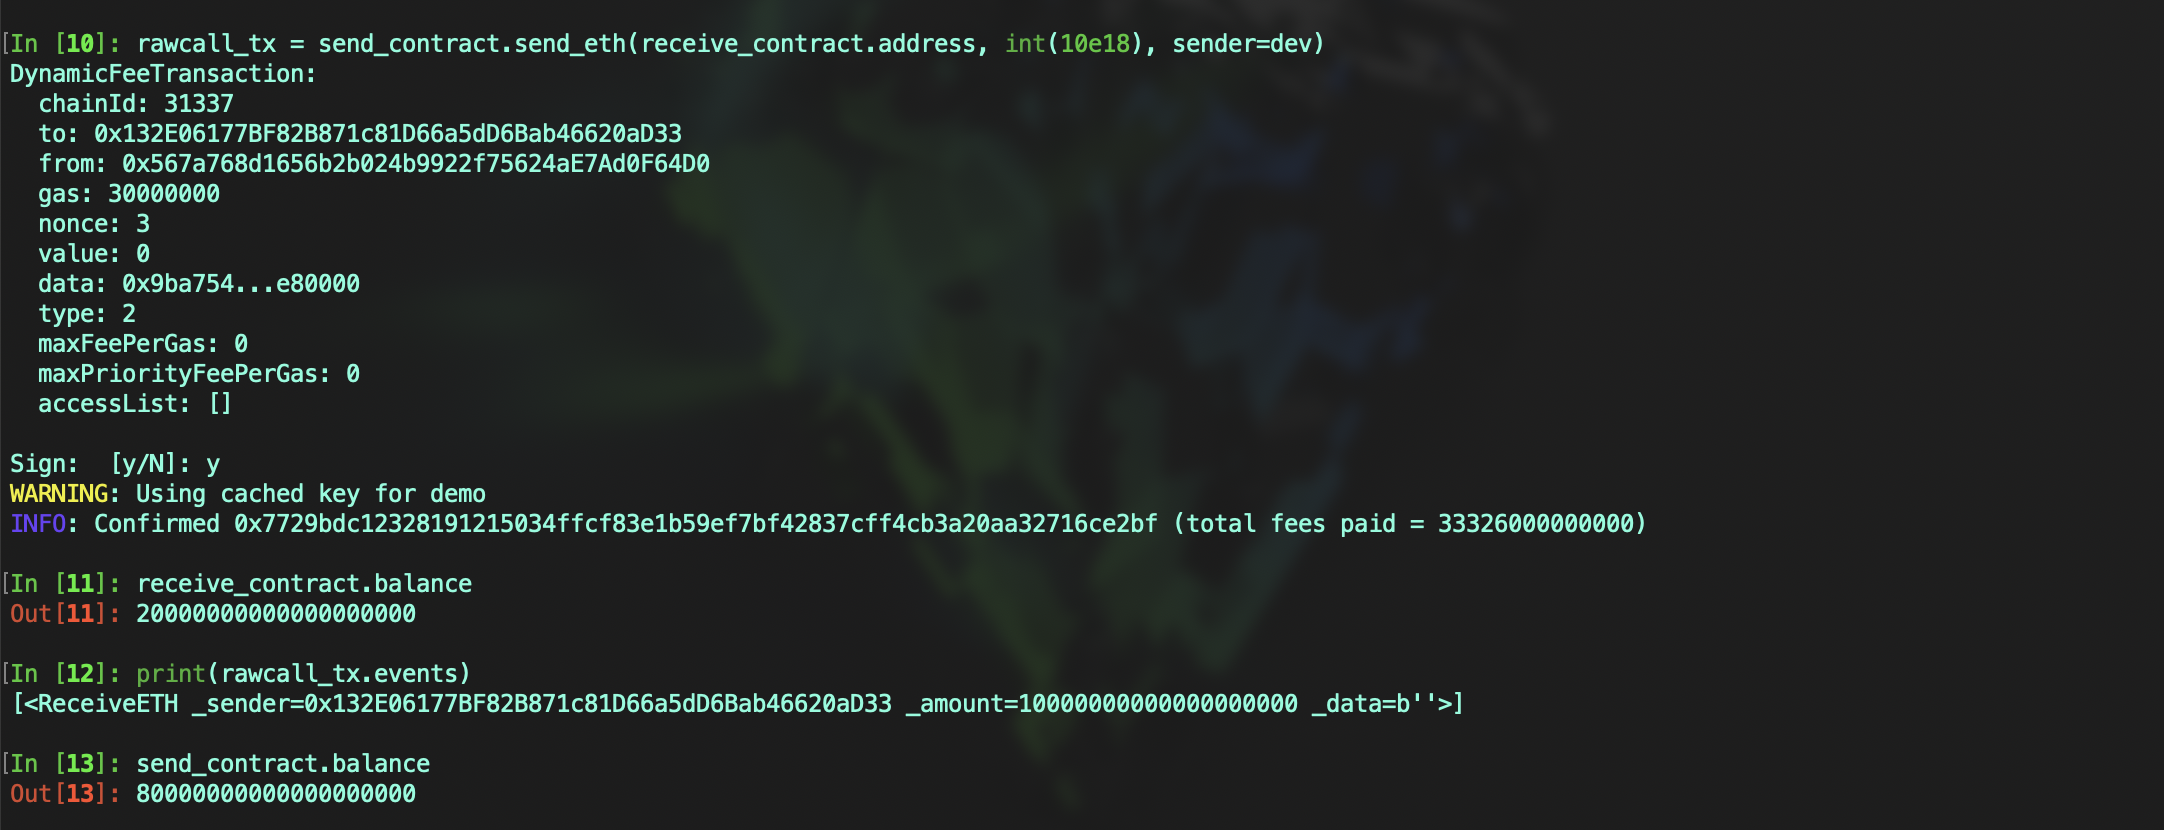
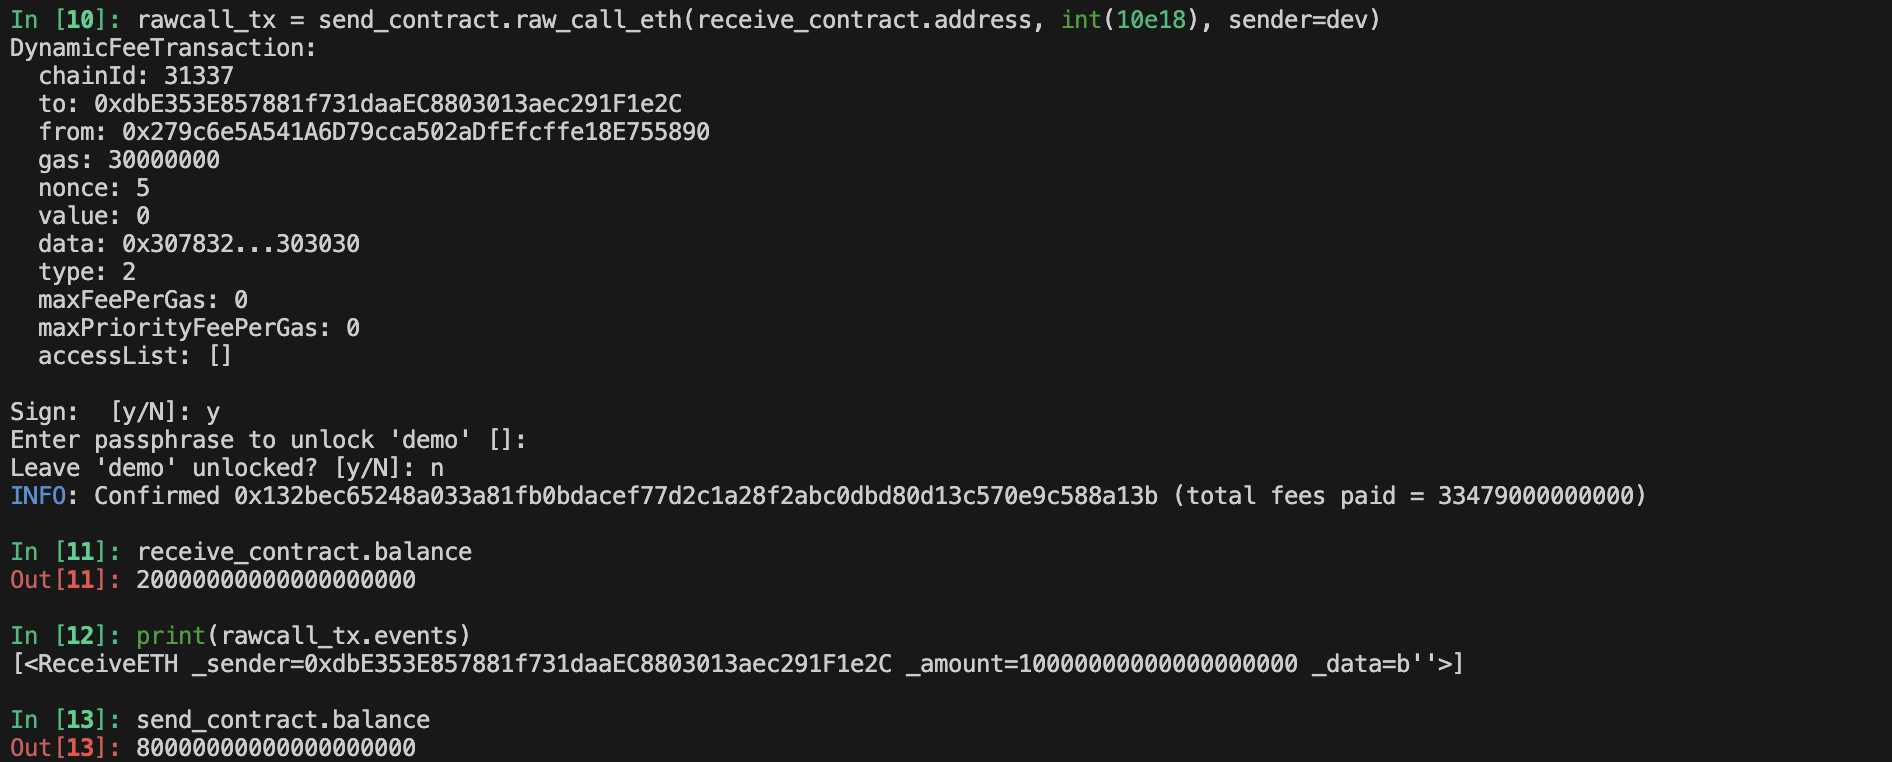
Lesson15-19 revised pictures and texts

diff --git a/Draft/16-发送ETH/README.md b/Draft/16-发送ETH/README.md
@@ -1,9 +1,10 @@
-# Vyper 入门: 16. 发送ETH
-在Vyper中，发送以太币（ETH）可以通过几种不同的方法实现: `send`、`raw_call` 和接口发送
+# Vyper 入门: 16. 发送 ETH
 
+在 Vyper 中，发送以太币（ETH）可以通过几种不同的方法实现: `send`、`raw_call` 和接口发送
 
 ## 部署接收 ETH 合约
-首先，我们需要一个能够接收 `ETH` 的合约。该合约声明了 `ReceiveETH` 事件以及用于接收ETH的函数
+
+首先，我们需要一个能够接收 `ETH` 的合约。该合约声明了 `ReceiveETH` 事件以及用于接收 ETH 的函数
 
 ```
 # @version 0.3.9
@@ -27,14 +28,13 @@ def __default__():
 
 ```
 
-
 ## 使用 `send` 发送 ETH
-`send` 适用于简单的ETH转账，不涉及复杂的逻辑或状态变更，通常不建议用于复杂的合约交互。在 `Vyper/Solidity` 合约开发时，建议尽量避免使用 `send` 来发送ETH。
 
+`send` 适用于简单的 ETH 转账，不涉及复杂的逻辑或状态变更，通常不建议用于复杂的合约交互。在 `Vyper/Solidity` 合约开发时，建议尽量避免使用 `send` 来发送 ETH。
 
-### 为什么不建议使用 `send` 发送ETH
+### 为什么不建议使用 `send` 发送 ETH
+
 `send` 仅提供 `2300 Gas`，这可能不足以覆盖接收方合约中的所有操作，尤其是当接收方合约需要执行状态变更或有事件日志时。
-
 
 **代码示例**:
 
@@ -43,39 +43,40 @@ def __default__():
 def send_eth(_receiver: address, _amount: uint256):
     send(_receiver, _amount)
 ```
+
 ![send](./image/send.png)
 
-
 ## 使用 `raw_call` 发送 ETH
-`raw_call` 提供了更大的灵活性和控制，并且没有 `gas` 限制，可以支持对方合约实现复杂逻辑，具体使用方法将在第18节中介绍，本节中仅介绍如果发送ETH
-- 使用语法 `raw_call(_receiver, b"", value=_amount)` 
-- 第1个参数代表需要调用/发送的合约/用户地址，当第二个参数为 `b""`时，代表此时 `raw_call` 的作用是发送ETH; `vlaue` 是转移数量，默认为0
-- `raw_call` 的返回值是 `bytes`, 需要自行转化成需要的类型
 
+`raw_call` 提供了更大的灵活性和控制，并且没有 `gas` 限制，可以支持对方合约实现复杂逻辑，具体使用方法将在第 18 节中介绍，本节中仅介绍如果发送 ETH
+
+- 使用语法 `raw_call(_receiver, b"", value=_amount)`
+- 第 1 个参数代表需要调用/发送的合约/用户地址，当第二个参数为 `b""`时，代表此时 `raw_call` 的作用是发送 ETH; `value` 是转移数量，默认为 0
+- `raw_call` 的返回值是 `bytes`, 需要自行转化成需要的类型
 
 **代码示例**:
 
 ```
 @external
 def raw_call_eth(_receiver: address, _amount: uint256):
-    responce: Bytes[32] = raw_call(
-        _receiver, 
-        b"", 
-        value=_amount, 
+    response: Bytes[32] = raw_call(
+        _receiver,
+        b"",
+        value=_amount,
         max_outsize=32
     )
 
-    if len(responce) != 0:
-        assert convert(responce, bool)
+    if len(response) != 0:
+        assert convert(response, bool)
 ```
 
 - `raw_call` 较为复杂，使用时需要更多的注意事项，以避免安全风险
 
 ![rawcall](./image/rawcall.png)
 
-
 ## 使用接口发送 ETH
-我们在第13节时详细介绍了接口(`interface`)的使用，通过接口发送ETH的前提需要目标合约接口函数声明装饰器 `@payable`，否则将发送失败
+
+我们在第 13 节时详细介绍了接口(`interface`)的使用，通过接口发送 ETH 的前提需要目标合约接口函数声明装饰器 `@payable`，否则将发送失败
 
 代码示例:
 
@@ -92,16 +93,16 @@ def interface_send_eth(_receiver_addr: ReceiverInterface, _amount: uint256):
 
 ![interfaceSend](./image/interfaceSend.png)
 
-
 ## 比较
+
 - `send`：最简单，但功能有限，适用于不需要执行合约代码的简单转账
 - `raw_call`：更复杂，提供更大的灵活性，推荐使用，但需要更谨慎地处理
 - `interface`：可以调用接收方合约中的函数
 
-
 ## 注意
-通过以上3种方式发送 `ETH` 的前提是实施合约需要有足够的余额，因为发送方是实施合约而不是合约调用者
 
+通过以上 3 种方式发送 `ETH` 的前提是实施合约需要有足够的余额，因为发送方是实施合约而不是合约调用者
 
 ## 总结
-本节介绍了Vyper中发送ETH的三种主要方法。选择合适的方法取决于合约的具体需求和场景。建议在大多数情况下优先考虑使用 `raw_call`
+
+本节介绍了 Vyper 中发送 ETH 的三种主要方法。选择合适的方法取决于合约的具体需求和场景。建议在大多数情况下优先考虑使用 `raw_call`

diff --git a/Draft/15-接收ETH/README.md b/Draft/15-接收ETH/README.md
@@ -1,19 +1,22 @@
-# Vyper 入门: 15. 接收ETH
-Vyper中接收ETH可以分为两种情况：局部接收和全局接收。
-- **局部接收**：使用 `@payable` 修饰符处理需要接收ETH的特定函数
-- **全局接收**：使用 `__default__` 特殊函数，用于处理发送到合约地址的ETH，但不调用任何具体的函数
+# Vyper 入门: 15. 接收 ETH
 
+Vyper 中接收 ETH 可以分为两种情况：局部接收和全局接收。
+
+- **局部接收**：使用 `@payable` 修饰符处理需要接收 ETH 的特定函数
+- **全局接收**：使用 `__default__` 特殊函数，用于处理发送到合约地址的 ETH，但不调用任何具体的函数
 
 ## `@payable` 修饰符
-用于标记可以接收ETH的函数，在合约中，任何应该接收ETH的函数都需要使用此修饰符
+
+用于标记可以接收 ETH 的函数，在合约中，任何应该接收 ETH 的函数都需要使用此修饰符
 
 代码示例：
+
 ```
 event Received:
 	_sender: indexed(address)
 	_amount: indexed(uint256)
 	_data: Bytes[1024]
-	
+
 
 @payable
 @external
@@ -21,18 +24,18 @@ def receive_eth():
 	log Received(msg.sender, msg.value, b"")
 ```
 
-- **注意**：只有标记了 `@payable` 的函数才能接收ETH。无法直接向未标记的合约转账ETH
-
+- **注意**：只有标记了 `@payable` 的函数才能接收 ETH。无法直接向未标记的合约转账 ETH
 
 ![payable](./image/payable.png)
 
-
 ## `__default__` 函数
-`__default__` 函数是一个特殊的函数，用于在未调用特定函数的情况下接收ETH，适用于接收不涉及特定逻辑的普通转账
 
-它也常用于构建代理合约，在第11节回调函数中有代理合约的实现，感兴趣的可以返回查看
+`__default__` 函数是一个特殊的函数，用于在未调用特定函数的情况下接收 ETH，适用于接收不涉及特定逻辑的普通转账
+
+它也常用于构建代理合约，在第 11 节回调函数中有代理合约的实现，感兴趣的可以返回查看
 
 示例代码：
+
 ```
 event Received:
 	_sender: indexed(address)
@@ -49,6 +52,6 @@ def __default__():
 
 ![default](./image/default.png)
 
-
 ## 总结
-在本节中我们介绍了如何接收ETH的两种方式，通过以上教程，你可以了解在Vyper中创建和管理能够接收ETH的智能合约的基本步骤和最佳实践
+
+在本节中我们介绍了如何接收 ETH 的两种方式，通过以上教程，你可以了解在 Vyper 中创建和管理能够接收 ETH 的智能合约的基本步骤和最佳实践
